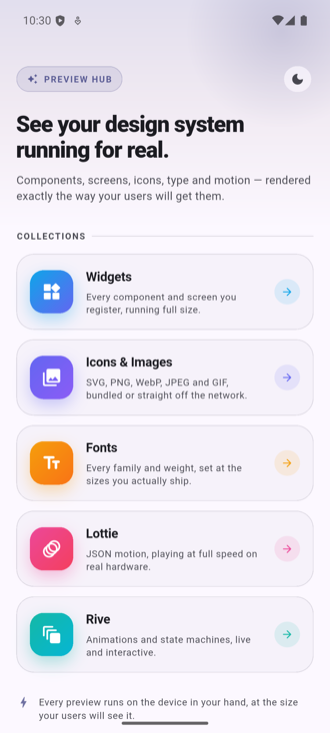
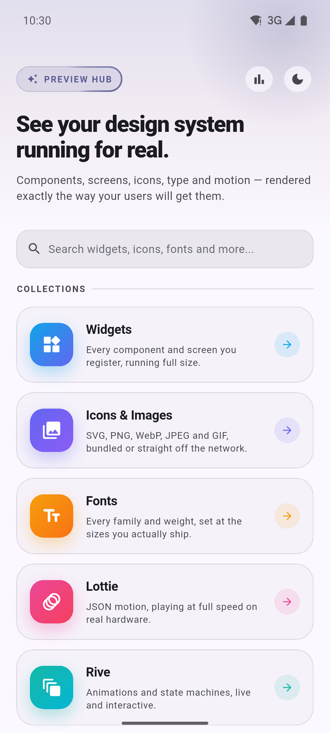
readme and ss updated

diff --git a/README.md b/README.md
@@ -1,6 +1,6 @@
 # PreviewHub
 
-A real-device gallery for your Flutter design system. Preview components, screens, icons, images, fonts, Lottie animations, Rive files, and other assets inside your own app.
+A real-device gallery for your Flutter design system. Preview components, screens, icons, images, fonts, Lottie animations, and Rive files.
 
 Everything is rendered using the same Flutter engine, theme, assets, and runtime configuration used by your application.
 
@@ -24,7 +24,7 @@ PreviewHub keeps dependencies to a minimum and currently uses `flutter_svg`, `ht
 
 ```yaml
 dependencies:
-  preview_hub: ^0.0.1
+  preview_hub: ^0.0.3
 ```
 
 ## Use
@@ -98,20 +98,18 @@ Widget _primaryLarge(BuildContext context) =>
 
 `group` defines the collapsible heading and `title` defines the preview name. Components can contain multiple cases, while screens open as full-size previews.
 
-Builders run only when a preview is displayed.
-
 ## Collections
 
 The landing screen provides global search and recently viewed items for quickly navigating through the gallery.
 
 | Collection         | Contents                                                                                                                            |
-| ------------------ | ----------------------------------------------------------------------------------------------------------------------------------- |
+| ------------------ |-------------------------------------------------------------------------------------------------------------------------------------|
 | **Widgets**        | Registered components and screens, grouped and searchable.                                                                          |
 | **Icons & Images** | SVG, PNG, WebP, JPEG and GIF with dimensions and file size. Icon and image previews support different sizes, backgrounds, and tint. |
 | **Fonts**          | Font families and weights from the font manifest with size previews and a type tester.                                              |
 | **Lottie**         | Bundled and remote JSON animations with duration and frame count.                                                                   |
 | **Rive**           | Bundled and remote `.riv` files with artboard and state machine information.                                                        |
-| **Other**          | Additional assets such as PDF, JSON, and audio files.                                                                               |
+| **Other**          | Additional bundled assets such as PDF, JSON, and audio files.                                                                       |
 
 | Icons & Images                                                                                                                       | Fonts                                                                                                                     |
 | ------------------------------------------------------------------------------------------------------------------------------------ | ------------------------------------------------------------------------------------------------------------------------- |
